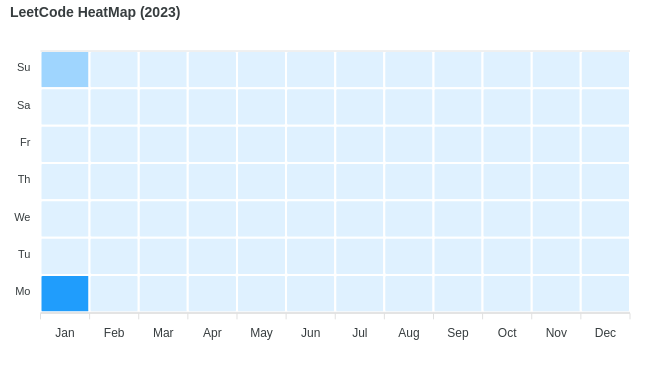
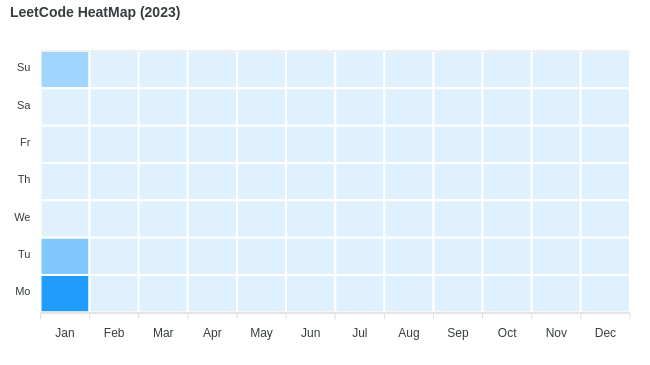
update heatmap.png

Changed region(s): [[0.0615, 0.6329, 0.1538, 0.7534]]

diff --git a/README.md b/README.md
@@ -3,7 +3,7 @@
 
 Collection of LeetCode questions to ace the coding interview! - Created using [LeetHub](https://github.com/QasimWani/LeetHub)
 
-> Questions solved 198 uniq: 78
+> Questions solved 201 uniq: 78
 
 ## Contribution 
 
